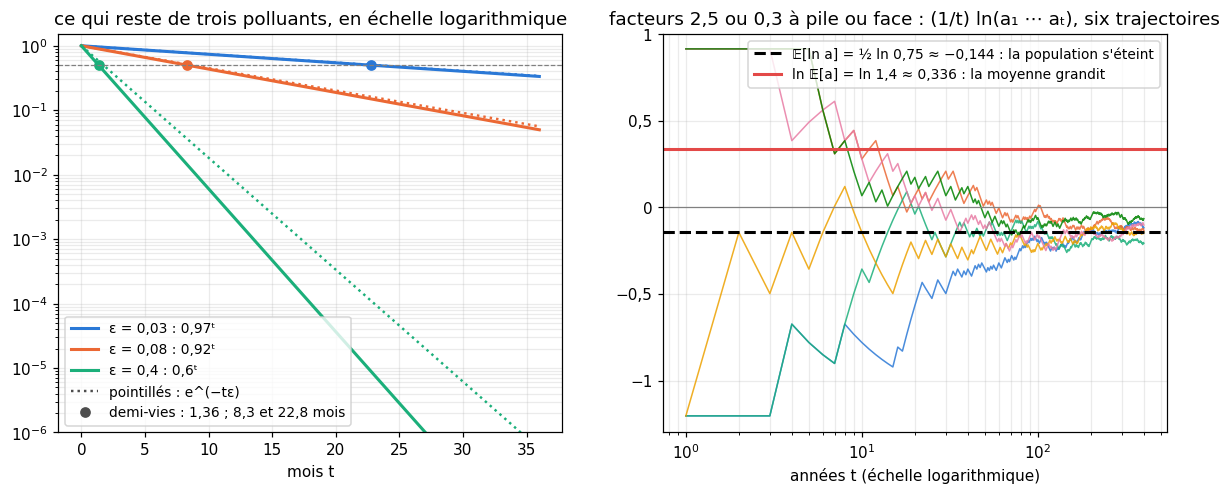
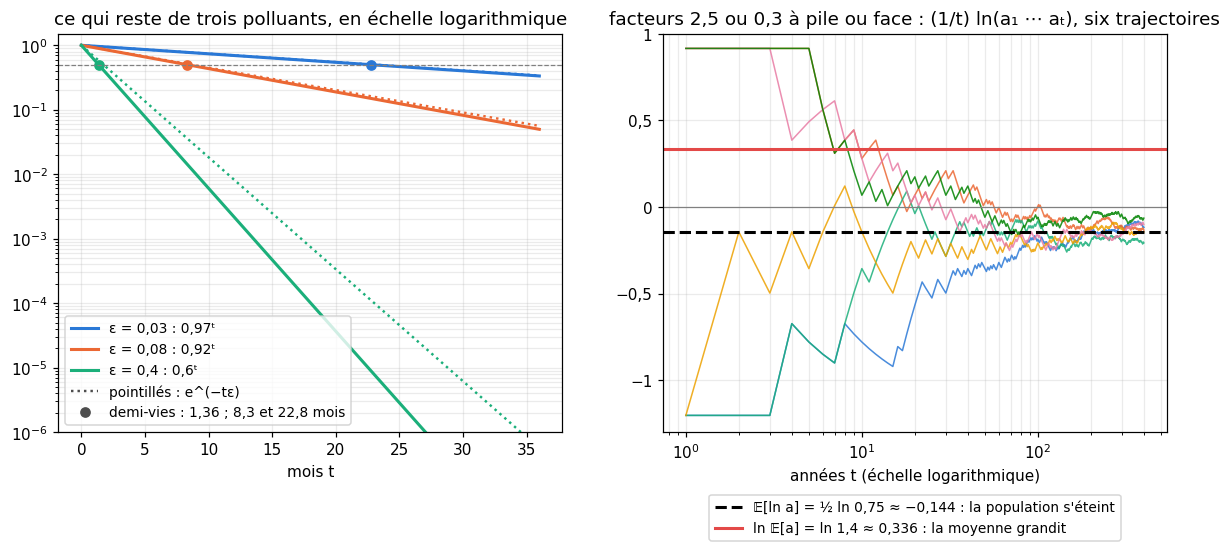
M22 (en cours) : corrections de la relecture indépendante de la fiche
Claude-Session: https://claude.ai/code/session_01Nzd2BLBqKp1WGBHcAcsxs2

diff --git a/tools/chapters/figures_m22.py b/tools/chapters/figures_m22.py
@@ -254,7 +254,7 @@ def factors() -> None:
     ax.set_xscale("log")
     ax.set(title="facteurs 2,5 ou 0,3 à pile ou face : (1/t) ln(a₁ ⋯ aₜ), six trajectoires",
            xlabel="années t (échelle logarithmique)", ylim=(-1.3, 1.0))
-    ax.legend(fontsize=9, loc="upper right")
+    ax.legend(fontsize=9, loc="upper center", bbox_to_anchor=(0.5, -0.14), ncol=1)
     ax.grid(alpha=0.25, which="both")
     save(fig, "facteurs_produits.png")
 
